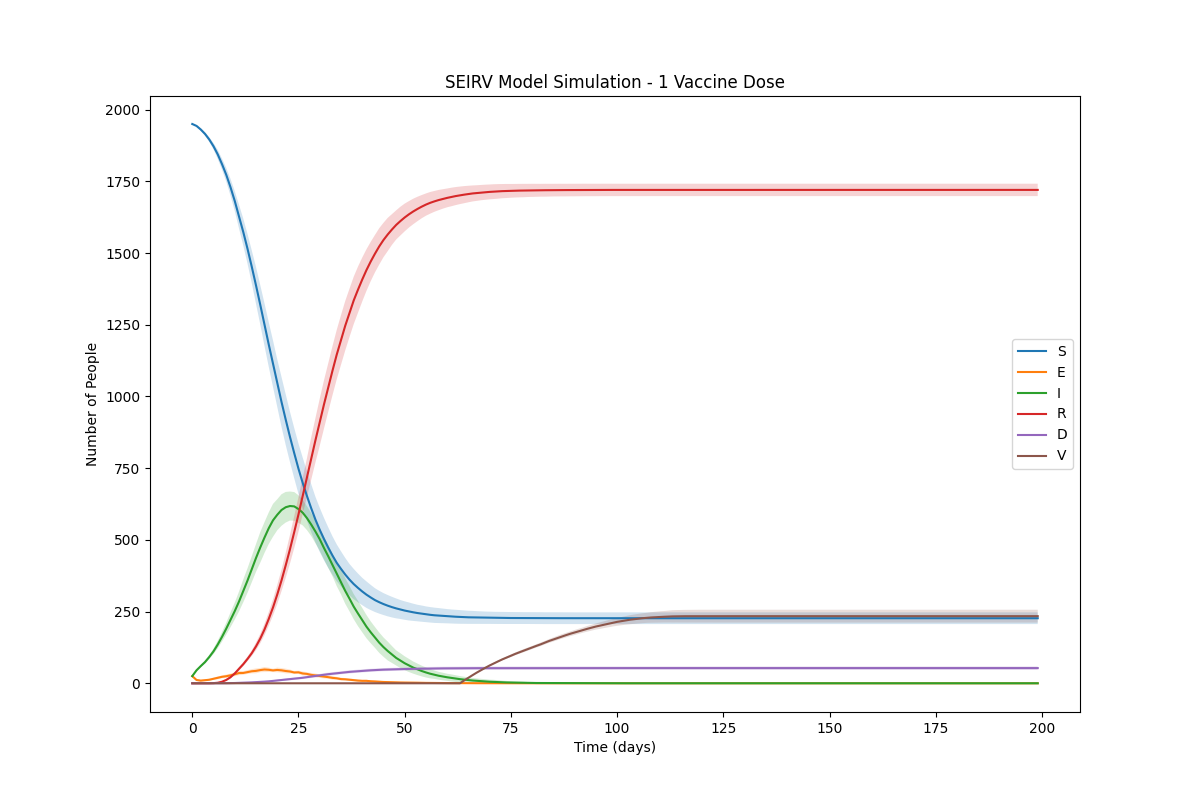
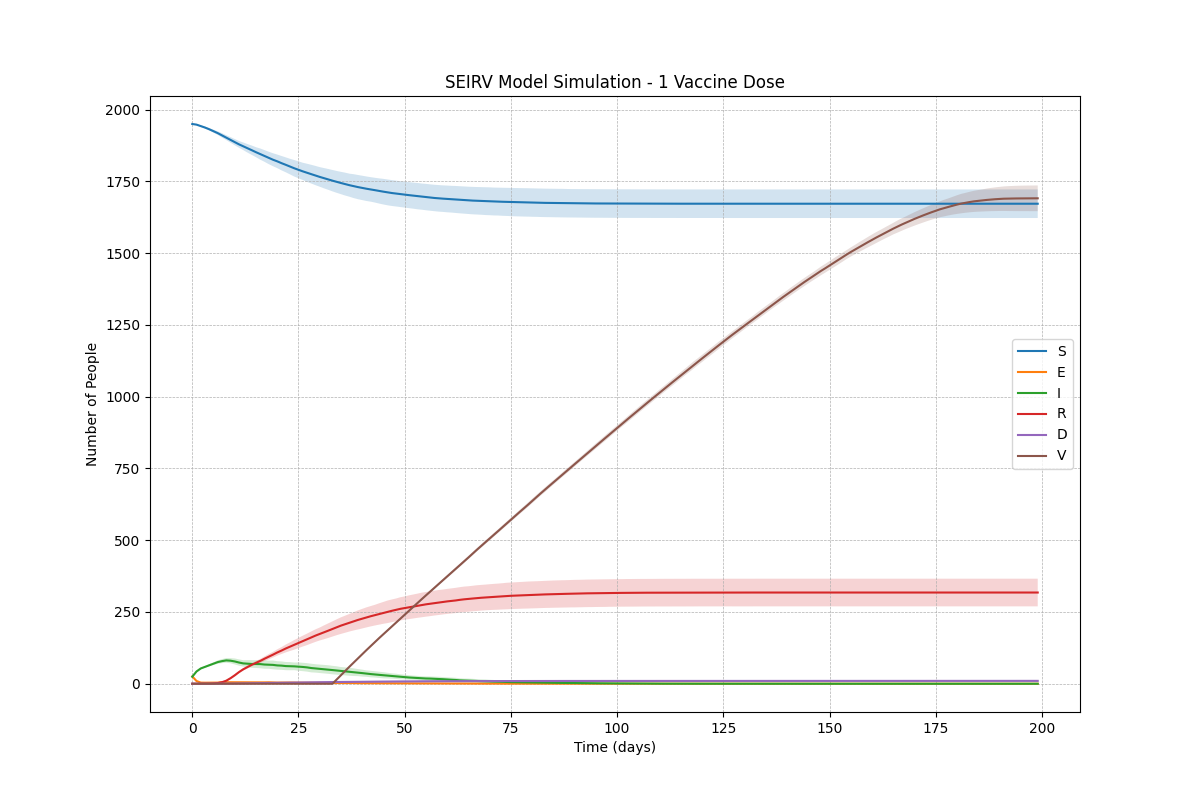
readme and changes in parameters

diff --git a/main.py b/main.py
@@ -8,7 +8,7 @@ import matplotlib.pyplot as plt
 DEFAULT_CONSTANTS = {
     "population_size": 2000,
     "initial_infected": 50,
-    "vaccination_rate": 0.02,  # Increased vaccination rate
+    "vaccination_rate": 0.05,
     "vaccination_delay": 14,
     "delay_between_doses": 21,
     "vaccine_efficacy_per_dose": [0.6, 0.3],
@@ -19,10 +19,10 @@ DEFAULT_CONSTANTS = {
     "mortality_rate": 0.03,
     "contact_rate_lambda": 20,
     "masking_effectiveness": 0.4,
-    "vaccination_start_step": 10,  # Start vaccination earlier
+    "vaccination_start_step": 50,
     "total_steps": 200,
-    "infection_radius": 0.075,
-    "base_infection_prob": 0.1,  # Reduced base infection probability
+    "infection_radius": 0.05,
+    "base_infection_prob": 0.1,
 }
 
 # States
@@ -213,7 +213,7 @@ def plot_seirv_curves(per_state_counts_mean, per_state_counts_std, scenario_name
     plt.xlabel('Time (days)')
     plt.ylabel('Number of People')
     plt.title(f'SEIRV Model Simulation - {scenario_name}')
-    plt.yscale('log')  # Apply logarithmic scale
+    # plt.yscale('log')  # Apply logarithmic scale
     plt.grid(True, which="both", ls="--", linewidth=0.5)
     plt.legend()
     if save:
@@ -249,16 +249,16 @@ scenarios = {
         "delay_between_doses": 0,
     },
     "1 Vaccine Dose": {
-        "masking_effectiveness": 0.0,
-        "vaccination_rate": 0.02,  # Increased vaccination rate
+        "masking_effectiveness": 0.4,
+        "vaccination_rate": 0.0075,  # Increased vaccination rate
         "doses": 1,
         "delay_between_doses": 0,
     },
     "2 Vaccine Doses": {
         "masking_effectiveness": 0.4,
-        "vaccination_rate": 0.02,  # Increased vaccination rate
+        "vaccination_rate": 0.0075,  # Increased vaccination rate
         "doses": 2,
-        "delay_between_doses": 21,
+        "delay_between_doses": 14,
     },
 }
 
@@ -273,15 +273,15 @@ if __name__ == "__main__":
         params = {
             "population_size": 2000,
             "total_steps": 200,
-            "vaccination_start_step": 10,  # Start vaccination earlier
+            "vaccination_start_step": 20,
             "vaccine_efficacy_per_dose": [0.6, 0.3],
             "vaccination_delay": 14,
             "delay_between_doses": scenario_params["delay_between_doses"],
-            "contact_rate_lambda": 20,
+            "contact_rate_lambda": 15,
             "recovery_mean": 10,
             "masking_effectiveness": scenario_params["masking_effectiveness"],
-            "infection_radius": 0.075,
-            "base_infection_prob": 0.1,  # Reduced base infection probability
+            "infection_radius": 0.1,
+            "base_infection_prob": 0.4,
         }
 
         # Run Monte Carlo simulation for the current scenario

diff --git a/README.md b/README.md
@@ -1,0 +1,141 @@
+# FluSim -- SEIRV Monte Carlo Simulation Library
+
+This library provides a framework to simulate the spread of infectious diseases using an enhanced SEIRV (Susceptible, Exposed, Infectious, Recovered, Vaccinated, Dead) model. The simulations are run with Monte Carlo methods to account for stochastic variations, allowing users to evaluate the effects of interventions like masking, social distancing, and vaccination.
+
+---
+
+## Features
+
+- **Modular Design**: Customize parameters for scenarios or use predefined ones.
+- **Monte Carlo Simulations**: Perform multiple runs to compute confidence intervals for results.
+- **Dynamic Infection Modeling**: Simulate realistic disease spread with proximity-based infection probabilities.
+- **Vaccination Effects**: Model single-dose and two-dose vaccine efficacy with delays.
+- **Flexible Output**: Generate detailed reports and visualize SEIRV dynamics with customizable plots.
+
+---
+
+## Installation
+
+Clone the repository or copy the `main.py` file into your project.
+
+```bash
+git clone https://github.com/Keivin98/FluSim.git
+cd FluSim
+```
+
+Install the required Python libraries:
+
+```
+pip install numpy matplotlib tqdm scipy
+```
+
+Usage
+
+Running Predefined Scenarios
+
+The library includes four predefined scenarios: 1. No Masking: No interventions. 2. Masking and Social Distancing: Masking reduces infection probability. 3. 1 Vaccine Dose: Vaccination with a single dose. 4. 2 Vaccine Doses: Masking combined with a two-dose vaccination strategy.
+
+Run the simulation with:
+
+```
+python main.py
+```
+
+Results include:
+• SEIRV plots saved as PNG files.
+• Final reports for each scenario.
+
+Customizing Simulations
+
+Example: Custom Parameters
+
+You can override default parameters by defining your own:
+
+```
+custom_params = {
+    "population_size": 2000,
+    "initial_infected": 50,
+    "vaccination_rate": 0.02,
+    "vaccination_delay": 14,
+    "delay_between_doses": 21,
+    "vaccine_efficacy_per_dose": [0.6, 0.3],
+    "recovery_mean": 10,
+    "recovery_sd": 2,
+    "latent_period_mean": 2,
+    "latent_period_sd": 1,
+    "mortality_rate": 0.03,
+    "contact_rate_lambda": 20,
+    "masking_effectiveness": 0.4,
+    "vaccination_start_step": 10,
+    "total_steps": 200,
+    "infection_radius": 0.075,
+    "base_infection_prob": 0.3,
+}
+```
+
+Run the simulation:
+
+```
+from seirv_simulation import run_monte_carlo_simulation, plot_seirv_curves, generate_report
+
+runs = 50
+per_state_counts_mean, per_state_counts_std, final_counts_mean, final_counts_std, report_data_aggregate = run_monte_carlo_simulation(
+    runs=runs,
+    params=custom_params,
+    vaccination_rate=0.02,
+    doses=2,
+    delay_between_doses=21,
+)
+
+plot_seirv_curves(per_state_counts_mean, per_state_counts_std, "Custom Scenario")
+generate_report(final_counts_mean, final_counts_std, report_data_aggregate, "Custom Scenario")
+```
+
+Reports
+
+Each scenario generates a report summarizing:
+
+Final Counts:
+• Susceptible (S)
+• Exposed (E)
+• Infectious (I)
+• Recovered (R)
+• Deceased (D)
+• Vaccinated (V)
+
+Aggregate Data:
+• Total Infected
+• Total Deceased
+• Total Recovered
+• Total Vaccinated
+
+Plots
+
+SEIRV dynamics are visualized with:
+• Customizable y-axis ticks: Based on powers of 2 (e.g., 5, 10, 20, 40, …).
+• Confidence Intervals: Shaded regions show ±1 standard deviation.
+• Logarithmic Scaling: Makes trends across different orders of magnitude more readable.
+
+Plots are saved automatically as PNG files.
+
+Key Parameters
+
+| Parameter                   | Description                                                            | Default Value |
+| --------------------------- | ---------------------------------------------------------------------- | ------------- |
+| `population_size`           | Total number of people in the simulation.                              | 2000          |
+| `initial_infected`          | Number of initially infected individuals.                              | 50            |
+| `vaccination_rate`          | Daily proportion of the population vaccinated.                         | 0.02          |
+| `vaccination_delay`         | Days before vaccine-induced immunity becomes effective.                | 14            |
+| `delay_between_doses`       | Minimum time between vaccine doses.                                    | 21            |
+| `vaccine_efficacy_per_dose` | Efficacy of each vaccine dose.                                         | [0.6, 0.3]    |
+| `recovery_mean`             | Mean recovery time in days.                                            | 10            |
+| `recovery_sd`               | Standard deviation of recovery time.                                   | 2             |
+| `latent_period_mean`        | Mean latent period (days before becoming infectious).                  | 2             |
+| `latent_period_sd`          | Standard deviation of the latent period.                               | 1             |
+| `mortality_rate`            | Probability of death for an infected individual.                       | 0.03          |
+| `contact_rate_lambda`       | Average number of daily contacts per person.                           | 20            |
+| `masking_effectiveness`     | Proportionate reduction in transmission probability due to masking.    | 0.4           |
+| `vaccination_start_step`    | Simulation step when vaccination begins.                               | 10            |
+| `total_steps`               | Total number of days in the simulation.                                | 200           |
+| `infection_radius`          | Distance within which an infectious individual can spread the disease. | 0.075         |
+| `base_infection_prob`       | Probability of transmission per contact (before adjustments).          | 0.3           |
